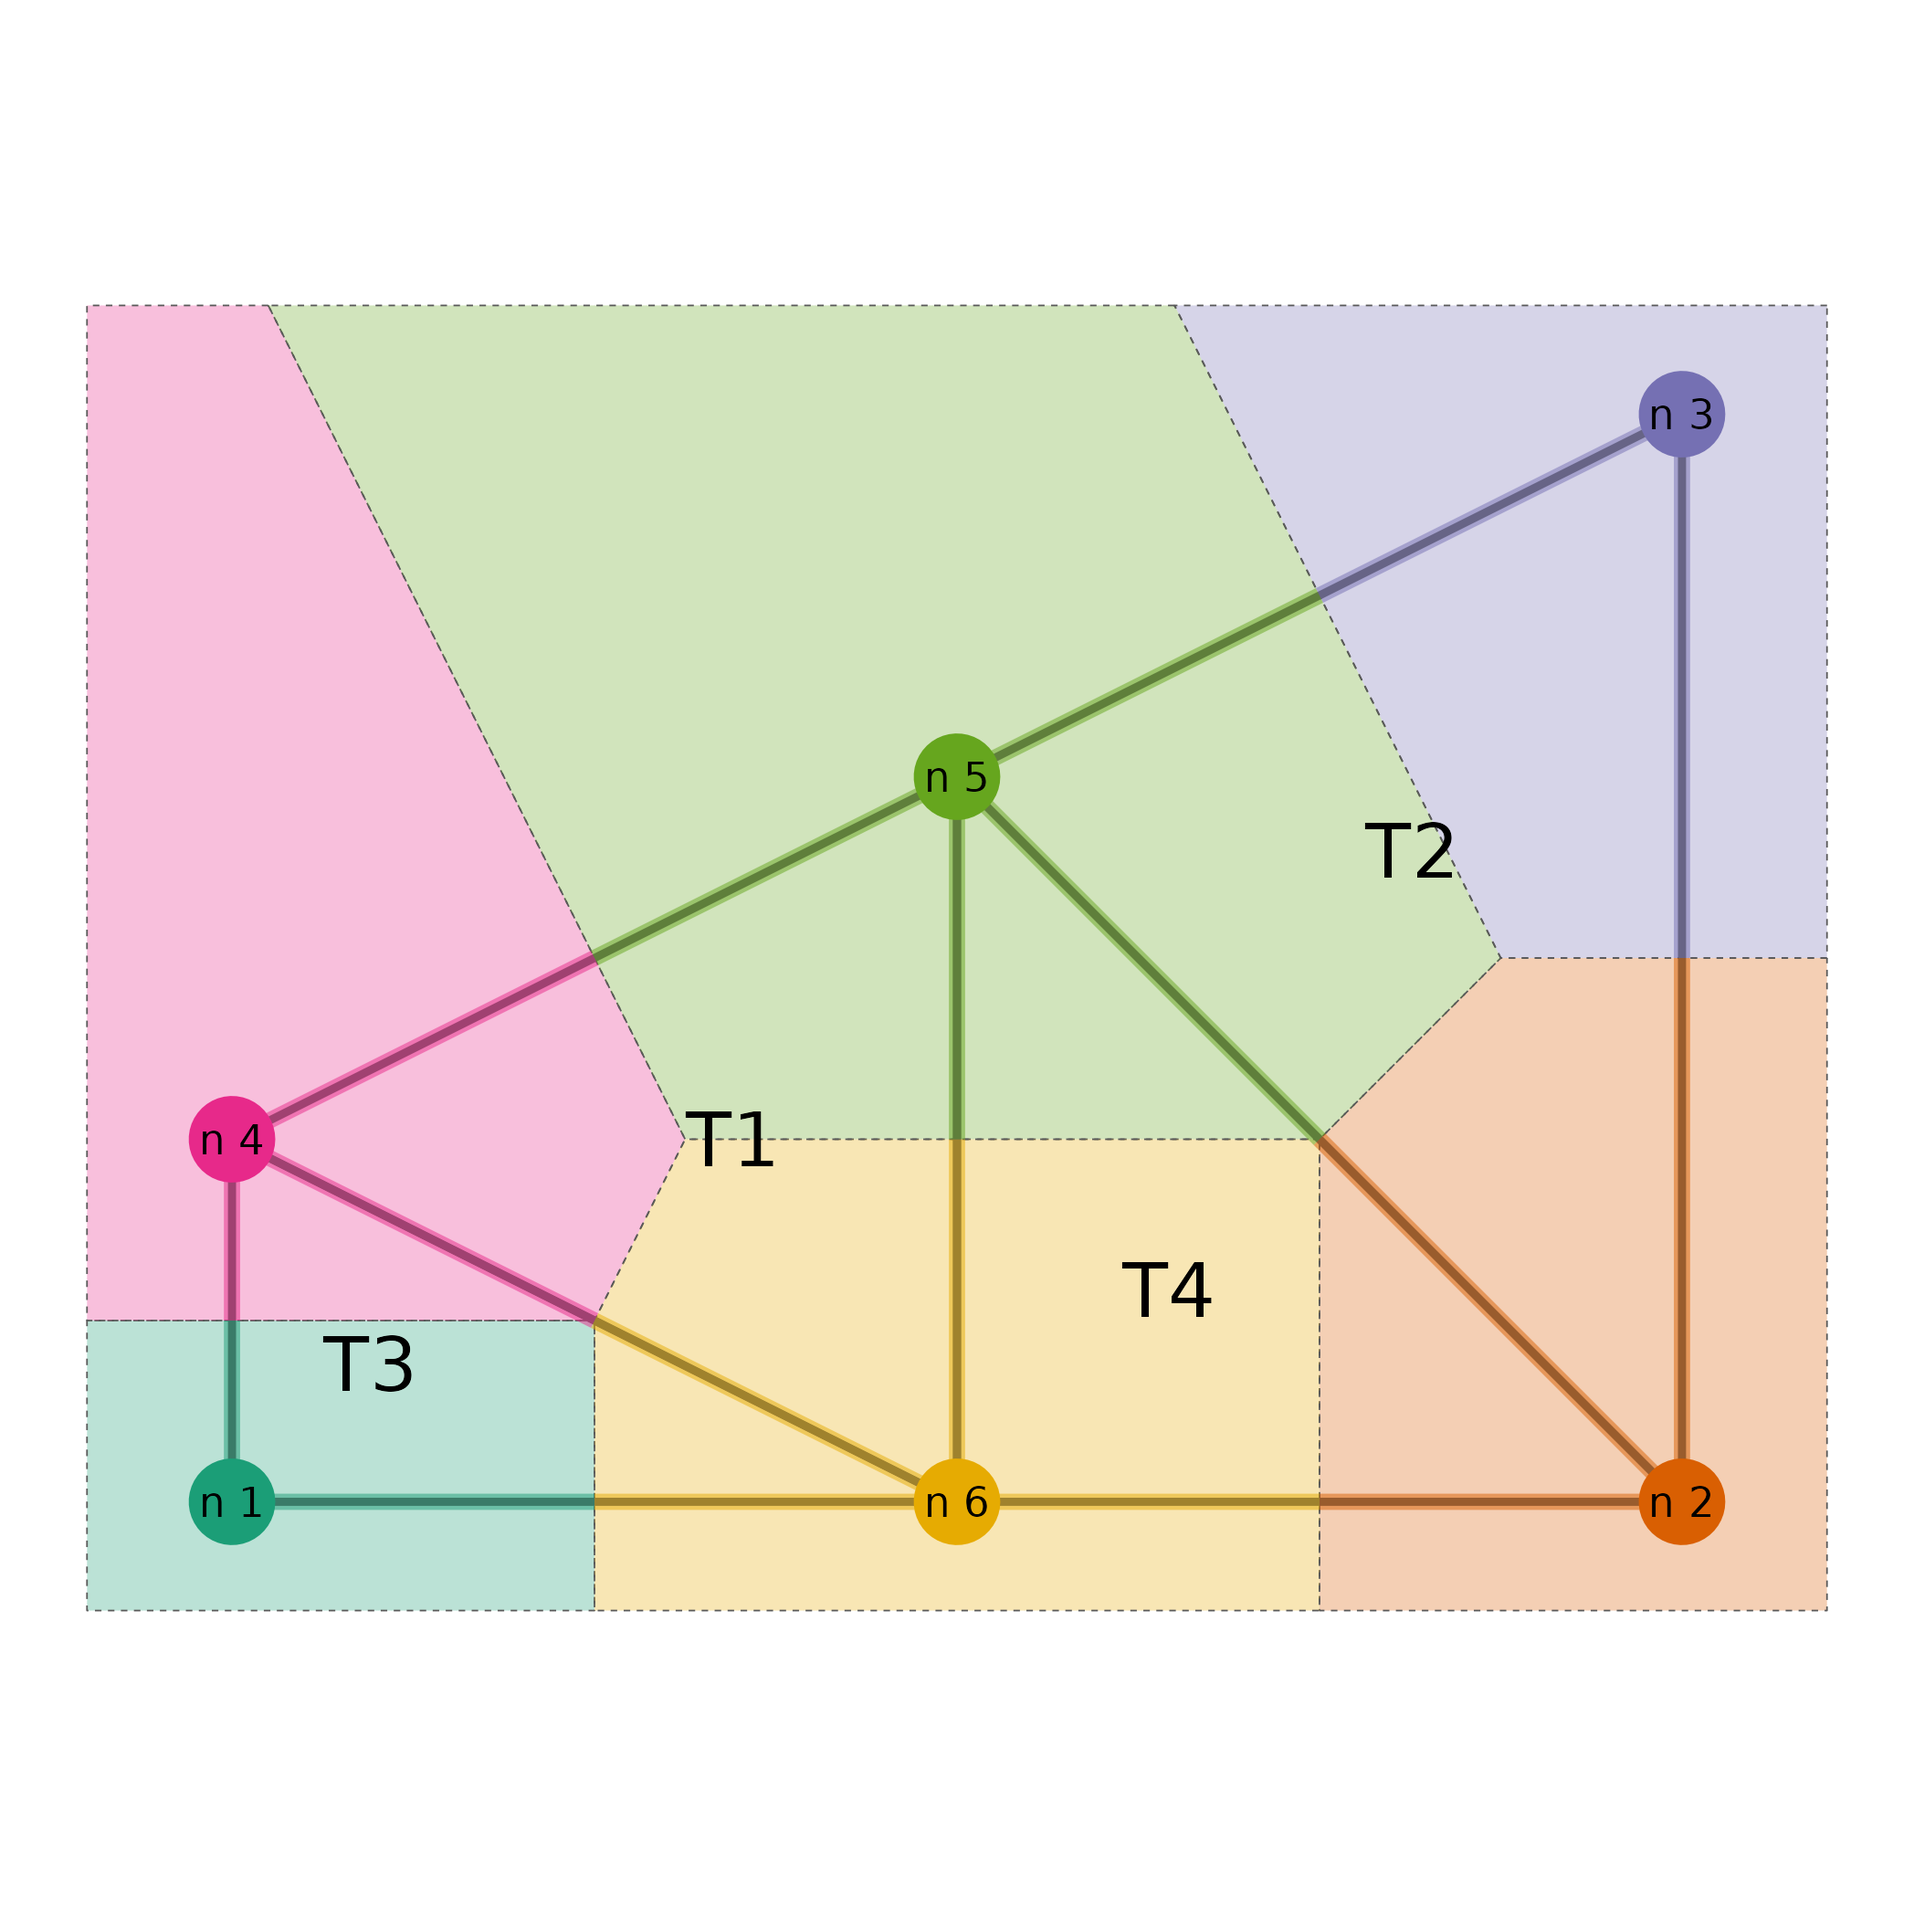
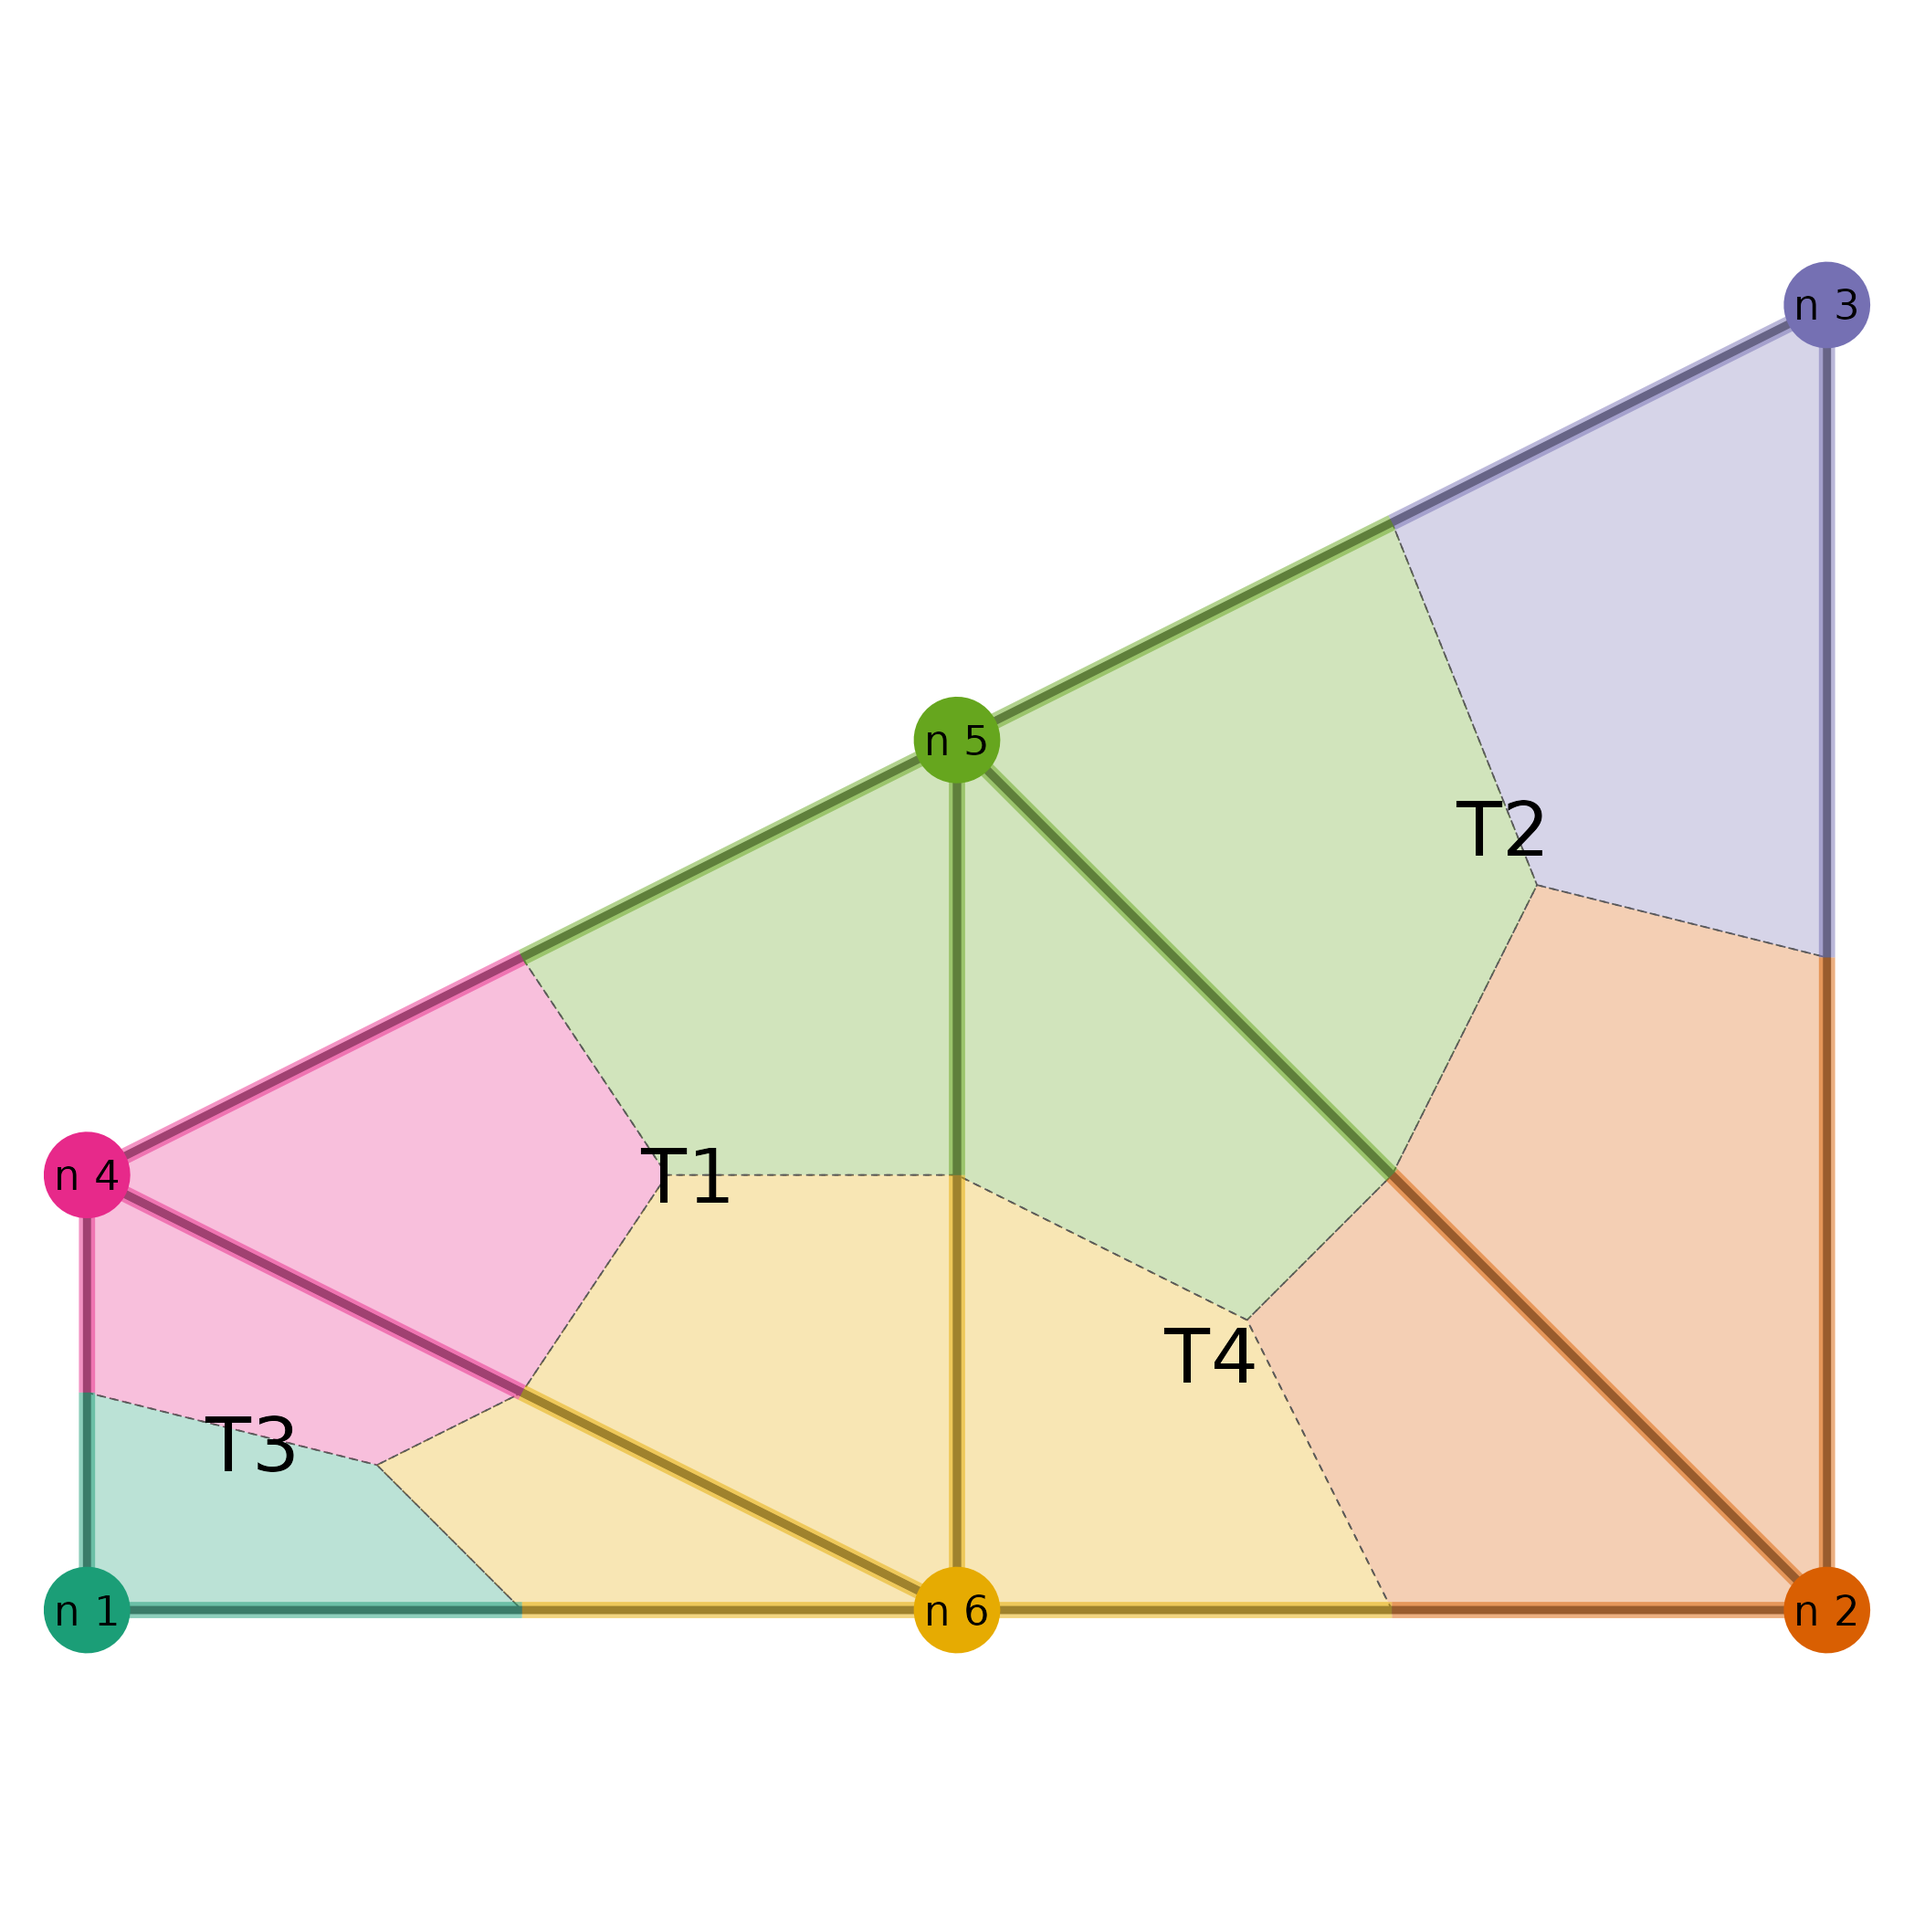
README update plot

diff --git a/README.md b/README.md
@@ -13,7 +13,7 @@ devtools::install_github("mems")
 
 ## mesh triangles
 
-Below is an illustration of mesh (Delaunay triangulation) elements. Each triangle (T1, ..., T4) is formed by the connection of three nodes (i.e., three of ni, i = 1,...,6) via an edge. Each node *influence* can be thought of as proportional to the area of the Voronoi cell (coloured polygon) centred at that node. The *influence* of each triangle (T1, ..., T4) on each node (n1, ..., n6) is illustrated by each coloured line segment (i.e., the *length* of the edged connected to each node within the surrounding Voronoi cell).
+Below is an illustration of mesh (Delaunay triangulation) elements. Each triangle (T1, ..., T4) is formed by the connection of three nodes (i.e., three of ni, i = 1,...,6) via an edge. Each node *influence* can be thought of as proportional to the area of the Voronoi cell (coloured polygon) centred at that node.  In fact, the diagonal elemens of **C0**, **C_{ii}** are equal to the sum of one third the area of each triangle that the node *i* is part of. The *influence* of each triangle (T1, ..., T4) on each node (n1, ..., n6) is illustrated by each coloured line segment (i.e., the *length* of the edged connected to each node within the surrounding Voronoi cell).
 
 
 ![](https://github.com/cmjt/mems/blob/main/docs/example_mesh_attributes.png?raw=true)
@@ -23,7 +23,6 @@ Below is an illustration of mesh (Delaunay triangulation) elements. Each triangl
   
 ```r
 ## packages & data
-require(deldir)
 require(sf)
 require(ggplot2)
 require(mems)
@@ -31,16 +30,14 @@ data(example_mesh, package = "mems")
 mesh <- example_mesh
 ## manipulation
 nodes <- data.frame(x = mesh$loc[,1], y = mesh$loc[,2])
-tesselation <- deldir(nodes$x, nodes$y)
-tiles <- tile.list(tesselation) ## voronoi diagram (extends outside boundary)
-vor <- deldir_2_sf(tiles)
+vor <- mems:::dual_mesh(mesh)
 sf <- mesh_2_sf(mesh)
 lin_sf <- half_segments(mesh)
 col_vor <- RColorBrewer::brewer.pal(6,"Dark2") 
 col_lin_sf <- col_vor[(st_intersection(vor, lin_sf) %>%
-    subset(., st_geometry_type(st_geometry(.)) == "LINESTRING"))$id]
+    subset(., st_geometry_type(st_geometry(.)) == "LINESTRING"))$ID]
 ## plot
-ggplot() +  geom_sf(data = deldir_2_sf(tiles),fill = col_vor,
+ggplot() +  geom_sf(data = vor,fill = col_vor,
                     linetype = 2, alpha = 0.3) +
     geom_sf(data = sf, fill = NA, linewidth = 1) +
     geom_sf(data = lin_sf, col = col_lin_sf, linewidth = 2, alpha = 0.5) + 
